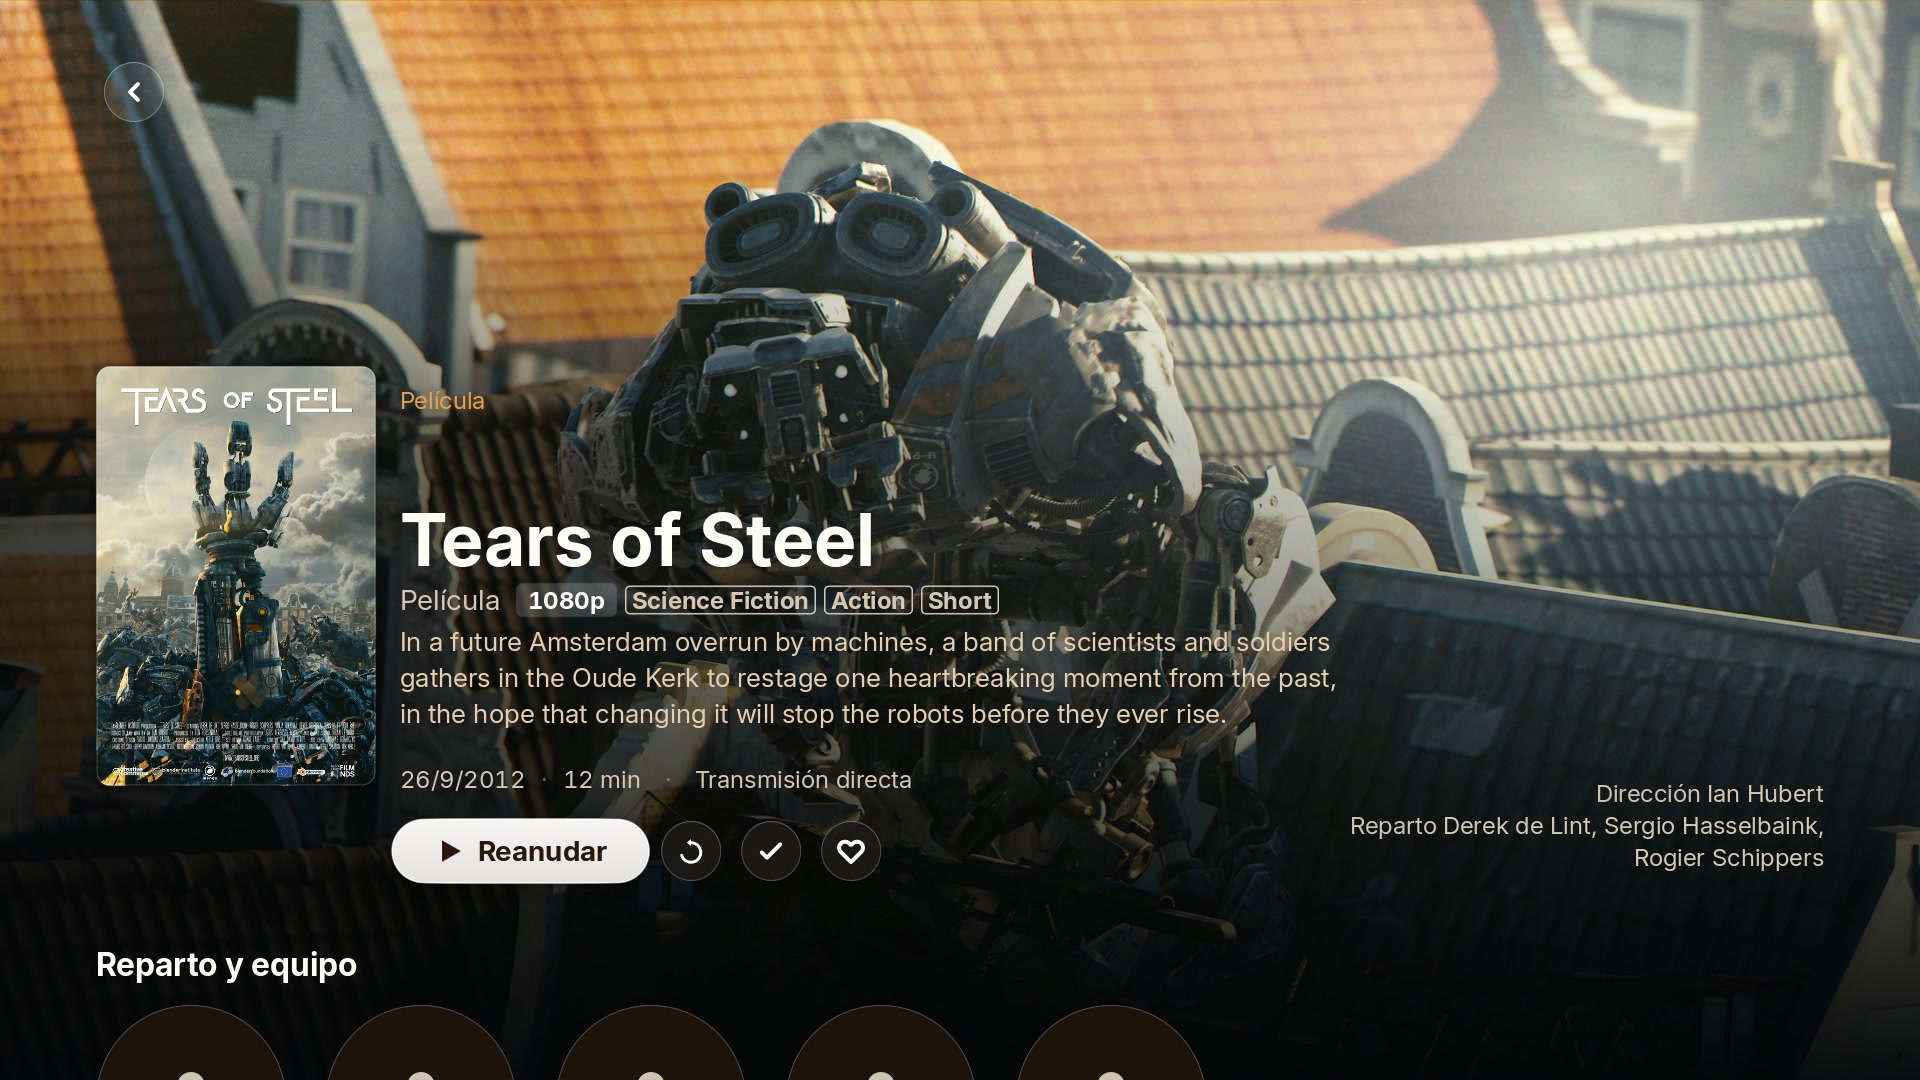
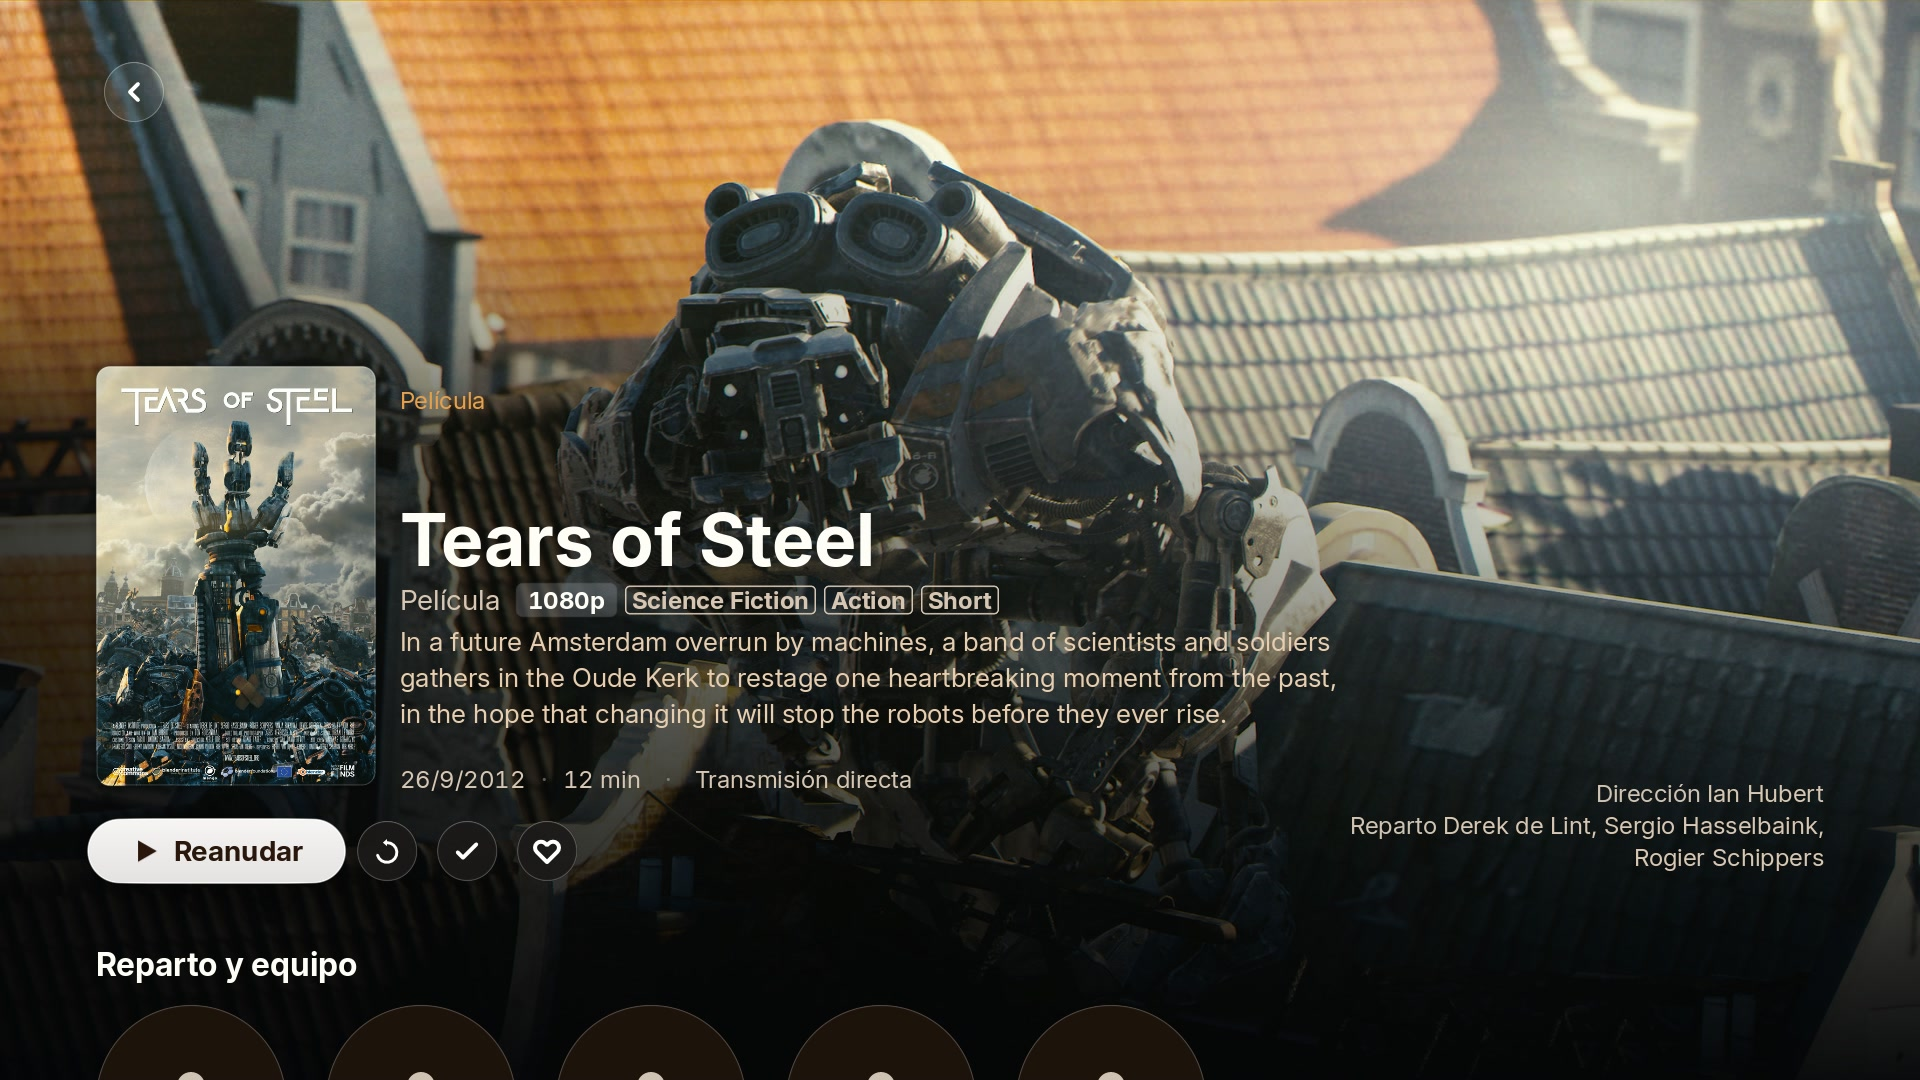
refactor(ui): keep the mockup pieces inside the recorded layout (#293)

Changed region(s): [[0.0312, 0.7333, 0.4688, 0.825]]

diff --git a/rust-modules/src/screens/home/mod.rs b/rust-modules/src/screens/home/mod.rs
@@ -686,30 +686,31 @@ impl HomeScreen {
         let sty = self.row_style(row);
         (sty.w, sty.h)
     }
-    /// One row's vertical stride: the shared pitch, shortened by whatever the row's art gives up.
-    fn row_pitch(&self, row: usize) -> f32 {
-        card_row::ROW_PITCH_FIXED - (CARD_H - self.row_style(row).h)
+    /// **The vertical stride stays the poster row's even for the wide row.** The replay gate
+    /// pins Home's own layout in the state hash, so the wide cards are drawn inside the band a
+    /// poster row already owns — bottom-aligned with it — rather than re-flowing the page.
+    #[cfg(test)]
+    fn row_pitch(&self, _row: usize) -> f32 {
+        card_row::ROW_PITCH_FIXED
+    }
+    /// How far a row's art sits below its band's top: a shorter tile is bottom-aligned so its
+    /// label lands on the same line as every poster row's.
+    fn row_card_dy(&self, row: usize) -> f32 {
+        CARD_DY + (CARD_H - self.row_style(row).h)
     }
     fn row_card_x(&self, row: usize, col: usize, scroll: f32) -> f32 {
         let sty = self.row_style(row);
         MARGIN_X + col as f32 * (sty.w + sty.gap) - scroll
     }
-    /// How far the rows BELOW `row` have drifted from the uniform pitch.
-    fn shelf_offset(&self, row: usize) -> f32 {
-        (0..row)
-            .map(|r| self.row_pitch(r) - card_row::ROW_PITCH_FIXED)
-            .sum()
-    }
     fn shelf_top_settled(&self, row: usize, focus_row: usize) -> f32 {
         self.shelf_top_banded(row, Some(focus_row))
     }
     fn shelf_top_banded(&self, row: usize, band_row: Option<usize>) -> f32 {
-        card_row::settled_top(row, band_row, card_row::ROW_PITCH_FIXED) + self.shelf_offset(row)
+        card_row::settled_top(row, band_row, card_row::ROW_PITCH_FIXED)
     }
     fn grid_max_scroll(&self) -> f32 {
         let n = self.rows.len().max(1);
-        let h = card_row::settled_top(n, Some(n - 1), card_row::ROW_PITCH_FIXED)
-            + self.shelf_offset(n);
+        let h = card_row::settled_top(n, Some(n - 1), card_row::ROW_PITCH_FIXED);
         (h - (SCR_H - CONTENT_Y) + 60.0).max(0.0)
     }
 
@@ -725,9 +726,8 @@ impl HomeScreen {
         let top = PEEK_Y + (GRID_TOP_Y - PEEK_Y) * self.snap.pos;
         let mut flow = 0.0;
         for row in 0..MAX_HUBS {
-            let pitch = self.row_pitch(row);
             self.grid.shelves[row].base_y = top + flow - self.grid.scroll_y.pos * self.snap.pos;
-            flow += pitch + self.grid.shelves[row].under_band();
+            flow += card_row::ROW_PITCH_FIXED + self.grid.shelves[row].under_band();
         }
     }
 
@@ -1377,7 +1377,7 @@ impl HomeScreen {
         let (w, h) = self.row_card(row);
         let rect = Rect::new(
             self.row_card_x(row, col, self.grid.eff_scroll(row, self.snap.pos)),
-            self.grid.shelves[row].base_y + CARD_DY,
+            self.grid.shelves[row].base_y + self.row_card_dy(row),
             w,
             h,
         )

diff --git a/rust-modules/src/screens/home/tests.rs b/rust-modules/src/screens/home/tests.rs
@@ -2123,10 +2123,12 @@ fn continue_watching_is_the_one_landscape_row() {
         .expect("the demo library seeds Continue Watching");
     assert!(s.row_landscape(cw));
     assert_eq!(s.row_card(cw), (RowStyle::EPISODE.w, RowStyle::EPISODE.h));
-    assert!(
-        s.row_pitch(cw) < card_row::ROW_PITCH_FIXED,
-        "a landscape row is shorter than a poster row"
+    assert_eq!(
+        s.row_pitch(cw),
+        card_row::ROW_PITCH_FIXED,
+        "the wide row keeps the poster stride; only its art is shorter"
     );
+    assert!(s.row_card_dy(cw) > CARD_DY, "the shorter art sits on the band's foot");
     let poster = s
         .rows
         .iter()
@@ -2134,8 +2136,9 @@ fn continue_watching_is_the_one_landscape_row() {
         .unwrap_or(usize::MAX);
     assert!(!s.row_landscape(poster));
     assert_eq!(s.row_card(poster), (CARD_W, CARD_H));
-    assert!(
-        s.shelf_offset(cw + 1) < 0.0,
-        "the rows below a landscape row start higher"
+    assert_eq!(
+        s.row_pitch(cw + 1),
+        card_row::ROW_PITCH_FIXED,
+        "the rows below a landscape row do not re-flow"
     );
 }

diff --git a/rust-modules/src/screens/detail/mod.rs b/rust-modules/src/screens/detail/mod.rs
@@ -2451,9 +2451,9 @@ impl DetailScreen {
         let (controls, n) = hero::hero_ctls(set);
         let last = hero::hero_btn_rect_at(set, n.saturating_sub(1), y, widths);
         let row = [
-            crate::ui::detail_layout::HERO_TEXT_X,
+            crate::ui::consts::MARGIN_X,
             y - self.scroll.pos,
-            last.x + last.w - crate::ui::detail_layout::HERO_TEXT_X,
+            last.x + last.w - crate::ui::consts::MARGIN_X,
             hero::CD,
         ];
         let picture = crate::player::preview::view().picture;

diff --git a/rust-modules/src/screens/detail/hero.rs b/rust-modules/src/screens/detail/hero.rs
@@ -395,7 +395,7 @@ pub(crate) struct HeroWidths {
 /// measured widths. Ported verbatim from `ui/detail.rs::hero_btn_rect_at`.
 pub(crate) fn hero_btn_rect_at(set: HeroSet, i: usize, y: f32, cw: HeroWidths) -> Rect {
     let (v, n) = hero_ctls(set);
-    let mut x = crate::ui::detail_layout::HERO_TEXT_X;
+    let mut x = crate::ui::consts::MARGIN_X;
     let mut w = cw.pill;
     for (k, c) in v[..n].iter().enumerate() {
         w = match c {
